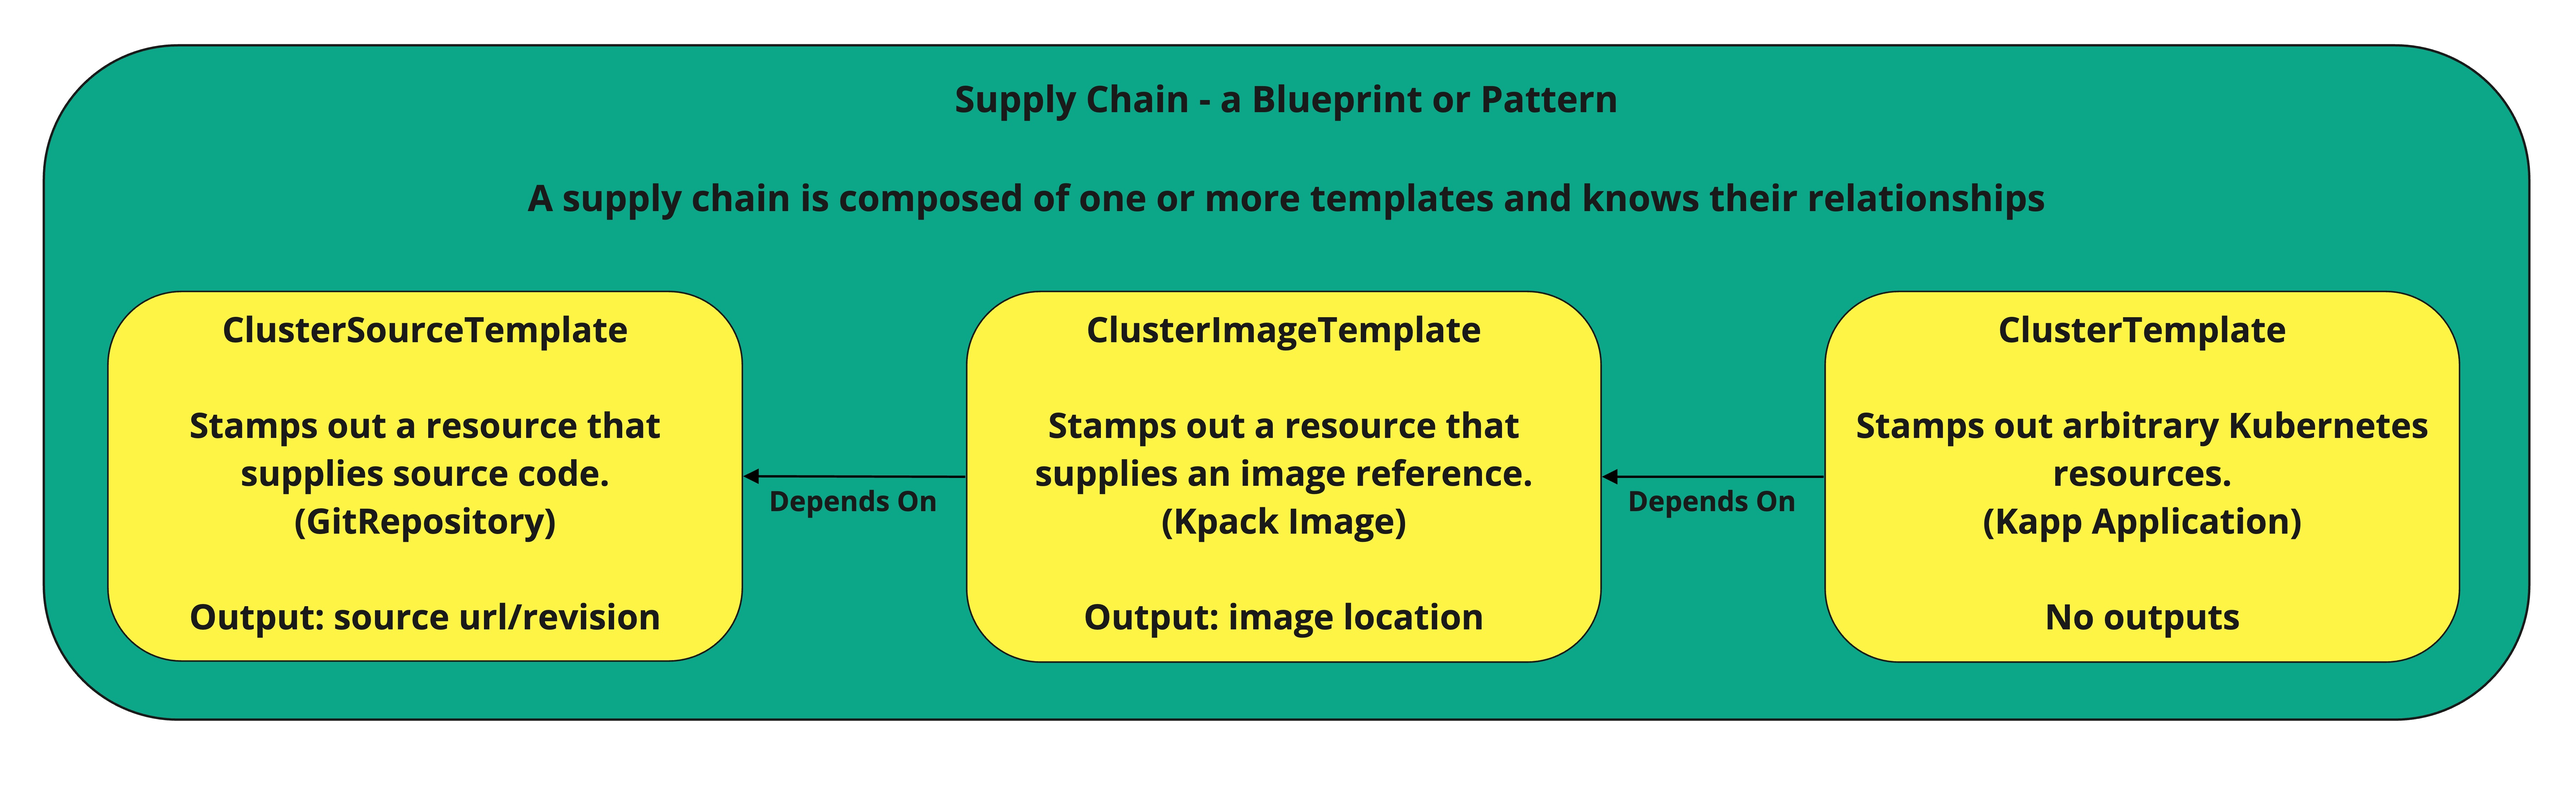
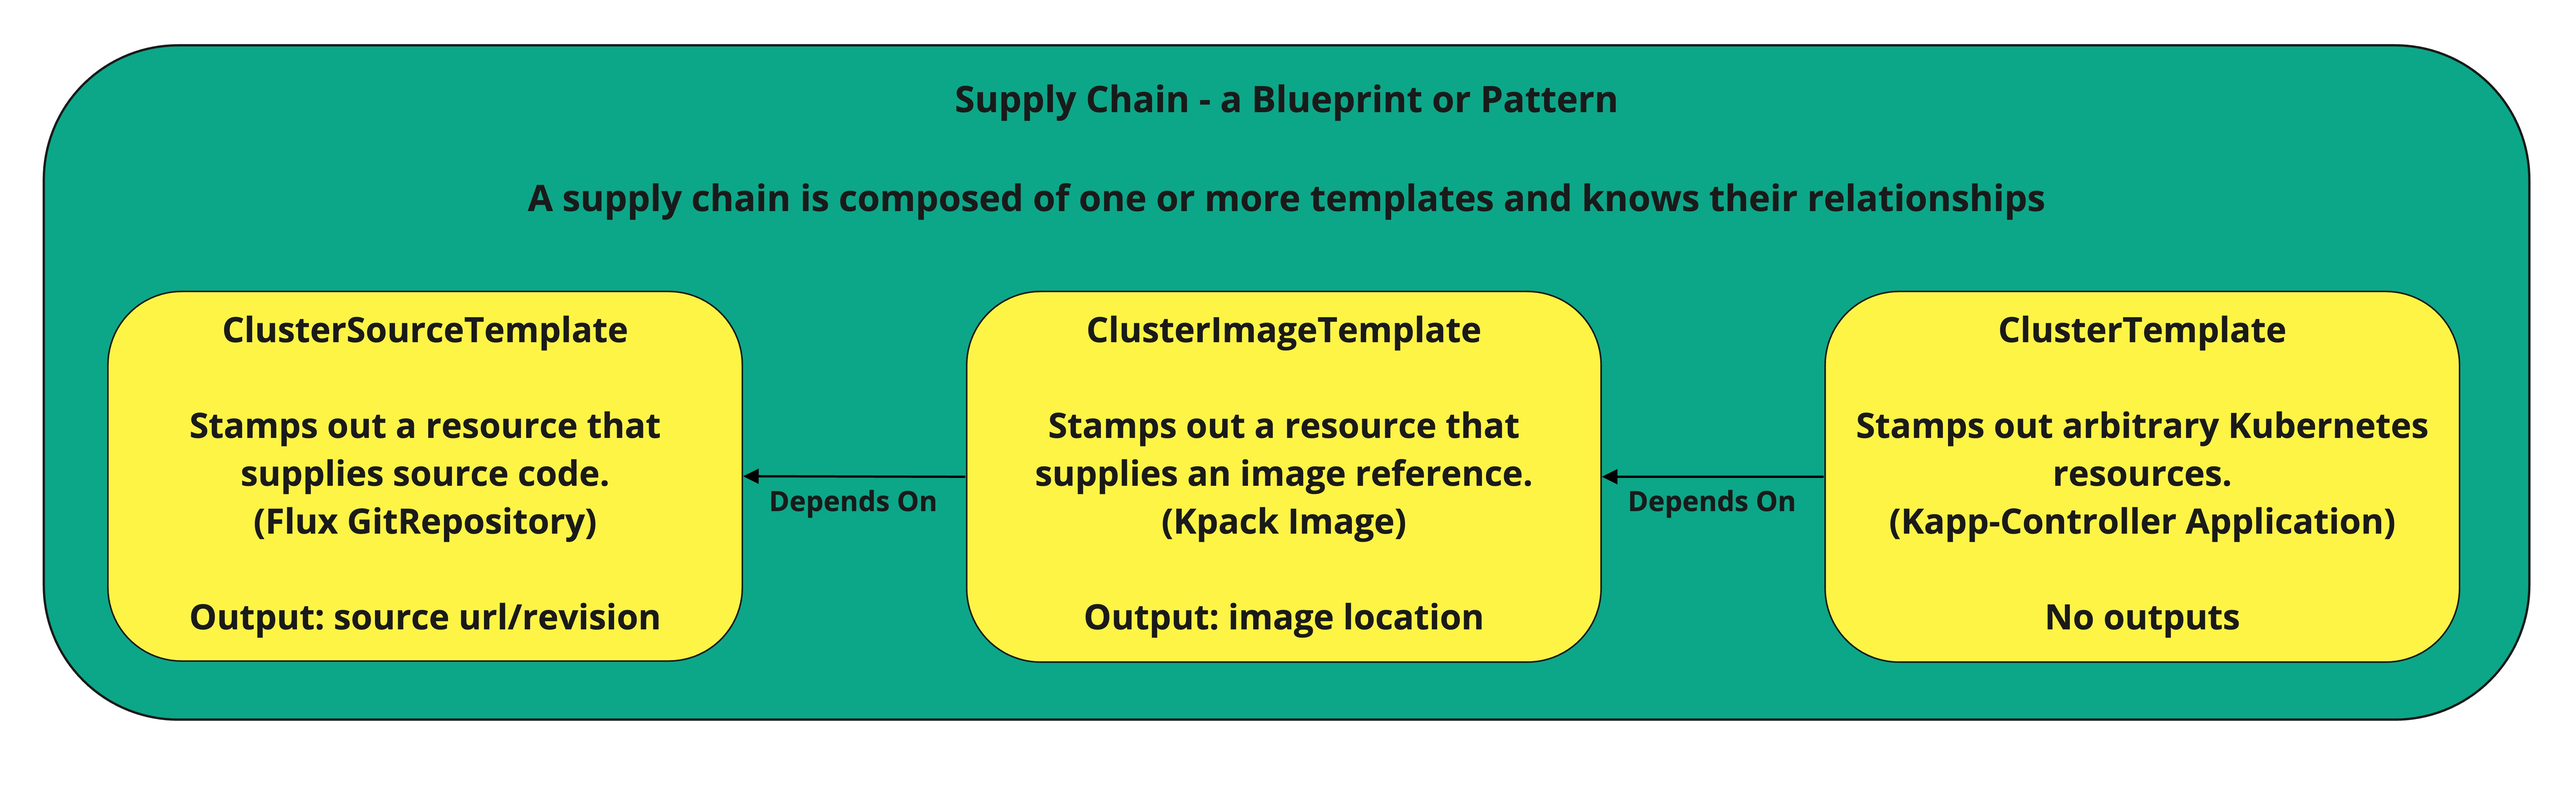
Update Cartographer Diagrams

Changed region(s): [[0.7181, 0.6216, 0.9366, 0.6838], [0.0937, 0.6216, 0.2498, 0.6838]]

diff --git a/07-CustomSupplyChain/README.md b/07-CustomSupplyChain/README.md
@@ -2,9 +2,9 @@
 
 In this exercise, we will create a custom supply chain that:
 
-1. Retrieves source code from Git
+1. Retrieves source code from Git and watches for updates
 2. Builds and publishes an images with Kpack
-3. Uses a Kubernetes deployment, services, and ingress to deploy the application
+3. Uses a Kapp-Controller application consisting of a deployment, service, and ingress to deploy the application
 
 This is similar to the out-of-the-box supply chain except that it does not use Knative to deploy the application.
 Our supply chain will be simpler than the out-of-the-box supply chain - at the loss of some flexibility.
@@ -22,11 +22,11 @@ This workshop has been tested with TAP 1.2.1 and TCE 0.12.1.
 
 All commands assume you have a command window open to the same directory as this README file.
 
-This workshop uses a Spring Boot application with a Swagger UI as the default application. The source code for that application is here:
-https://github.com/jeffgbutler/java-payment-calculator. You may use that application for testing if you wish. If you want to
-test triggering a supply chain with a commit, then please fork this repo and change the Git URL in the workload
-definition. You may also use any other application you desire as long as it can be built with Cloud Native Buildpacks
-(most SpringBoot, .Net Core, and NodeJS applications should work).
+This workshop uses a Spring Boot application with a Swagger UI as the default application. The source code for that
+application is here: https://github.com/jeffgbutler/java-payment-calculator. You may use that application for testing
+if you wish. If you want to test triggering a supply chain with a commit, then please fork the repo and change the
+Git URL in the workload definition. You may also use any other application you desire as long as it can be built with
+Cloud Native Buildpacks and Kpack (most SpringBoot, .Net Core, and NodeJS applications should work).
 
 ## Pre-Requisites: Carvel Tools
 
